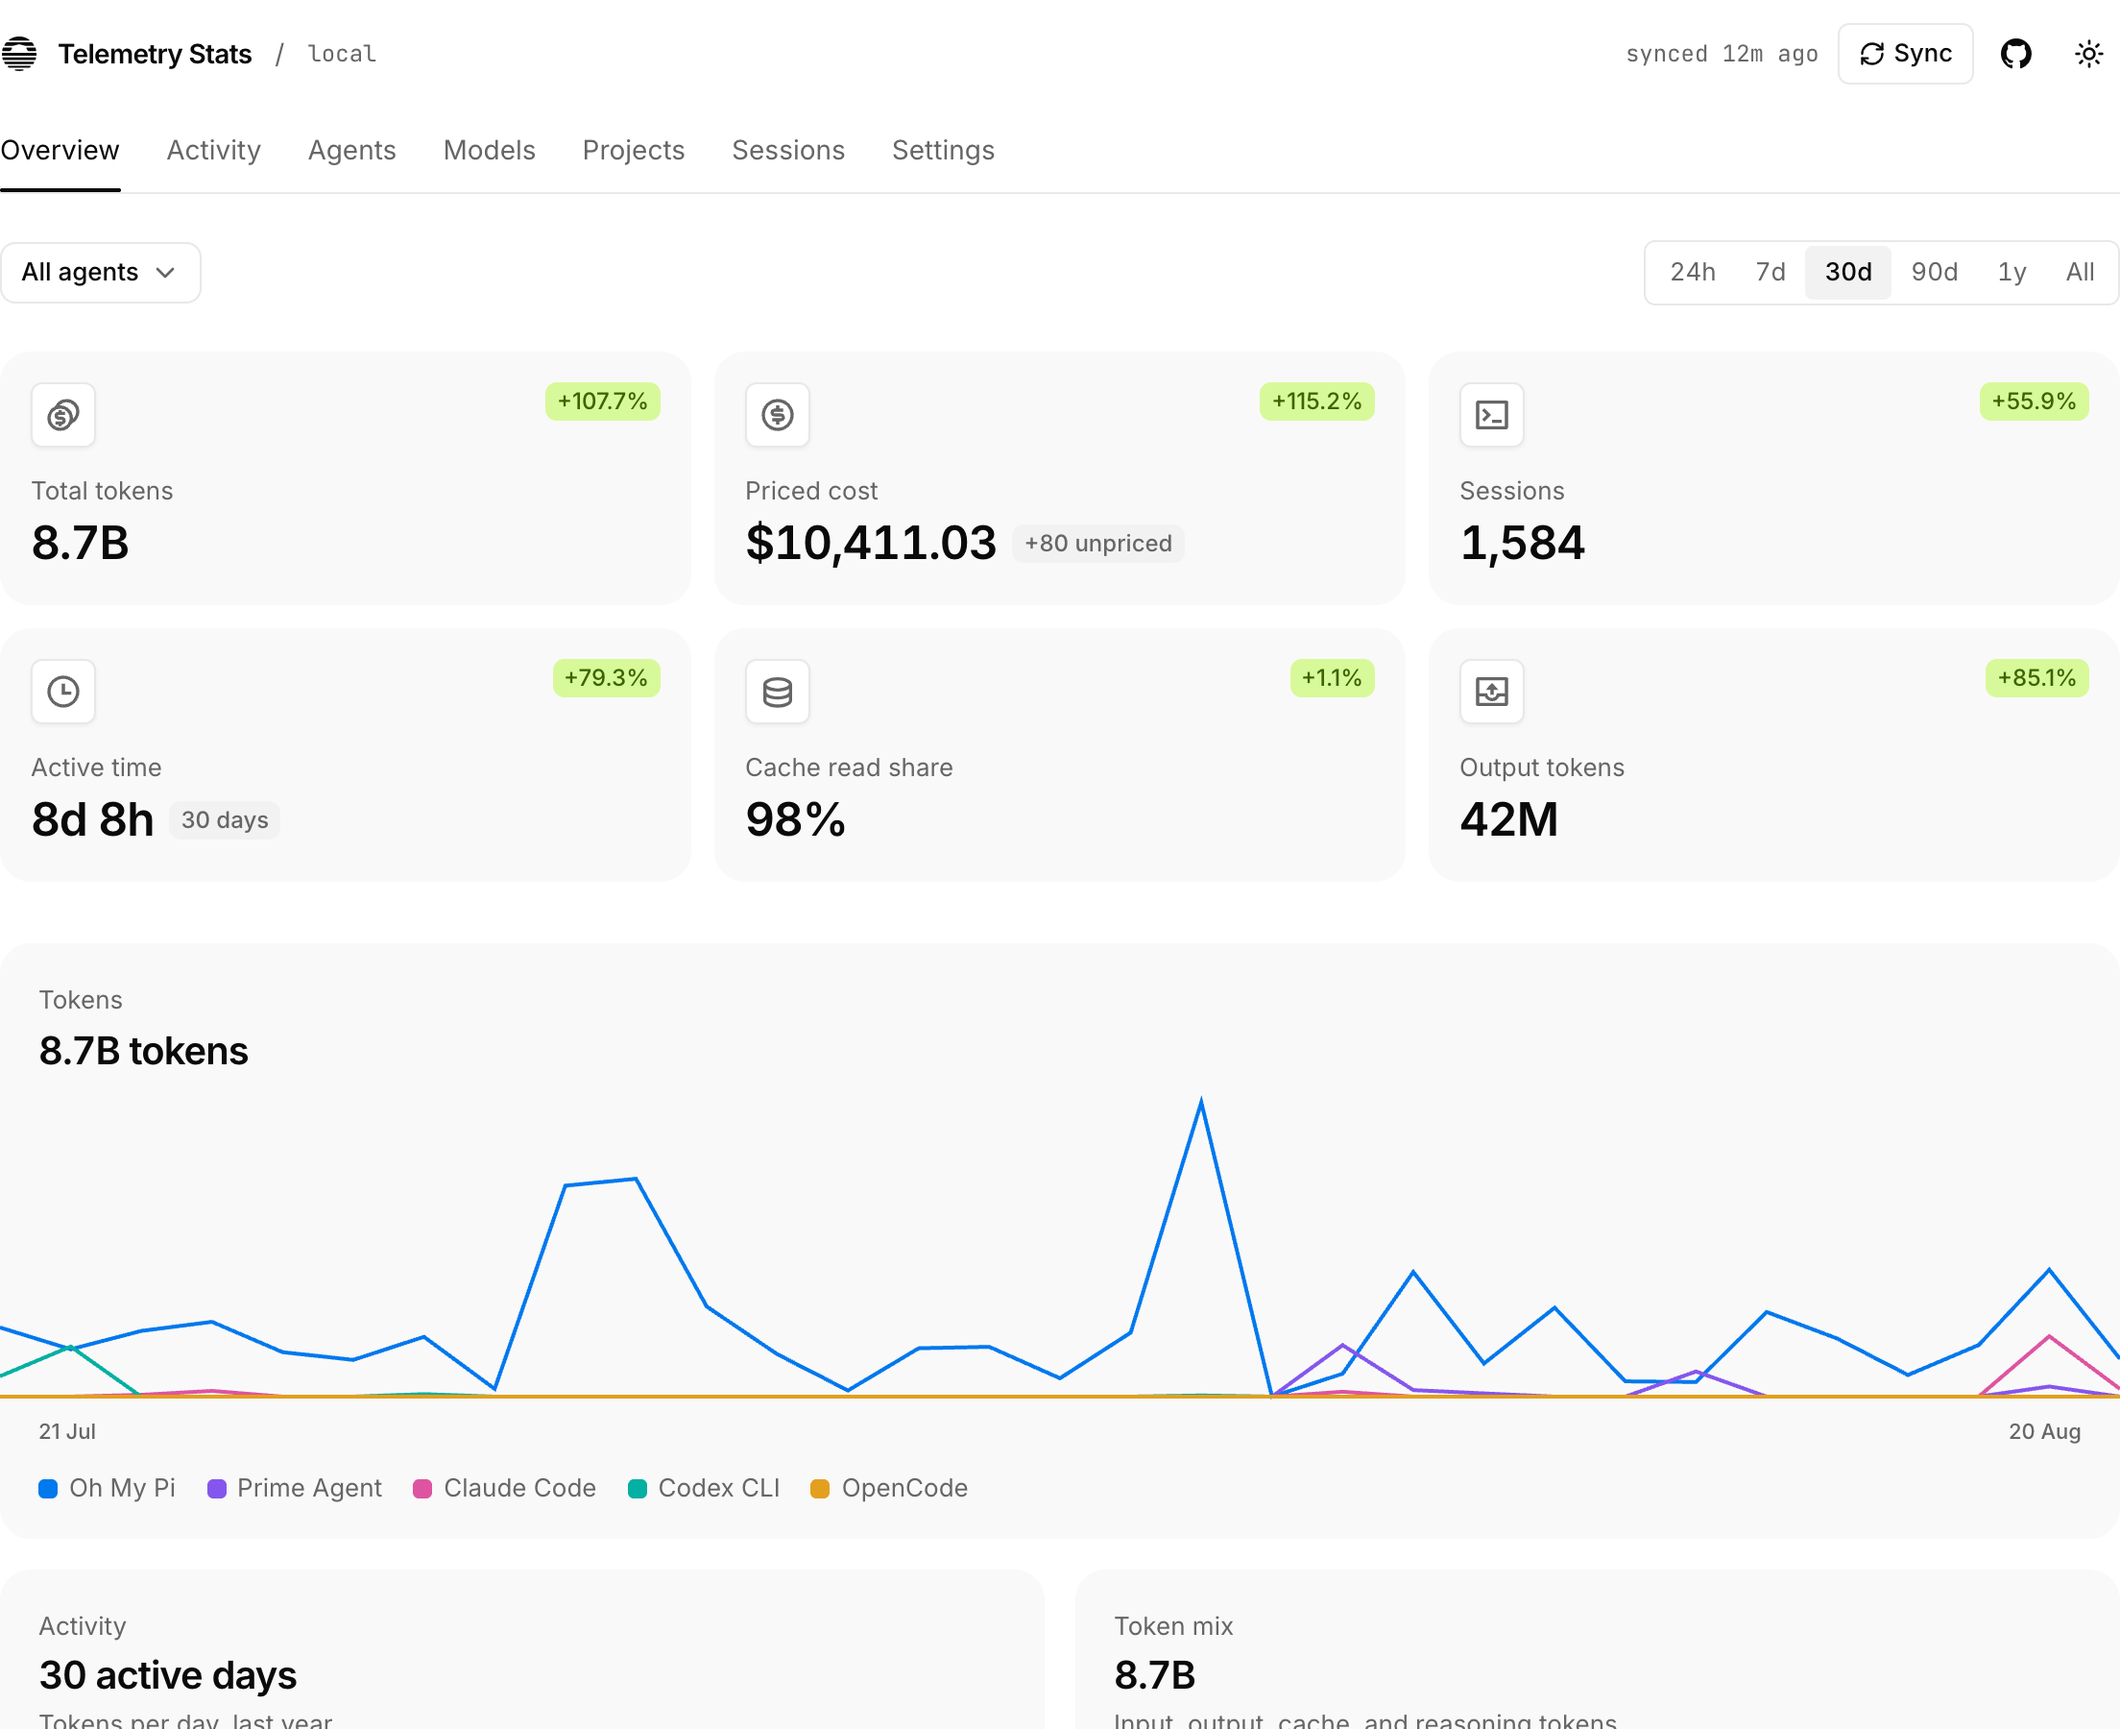
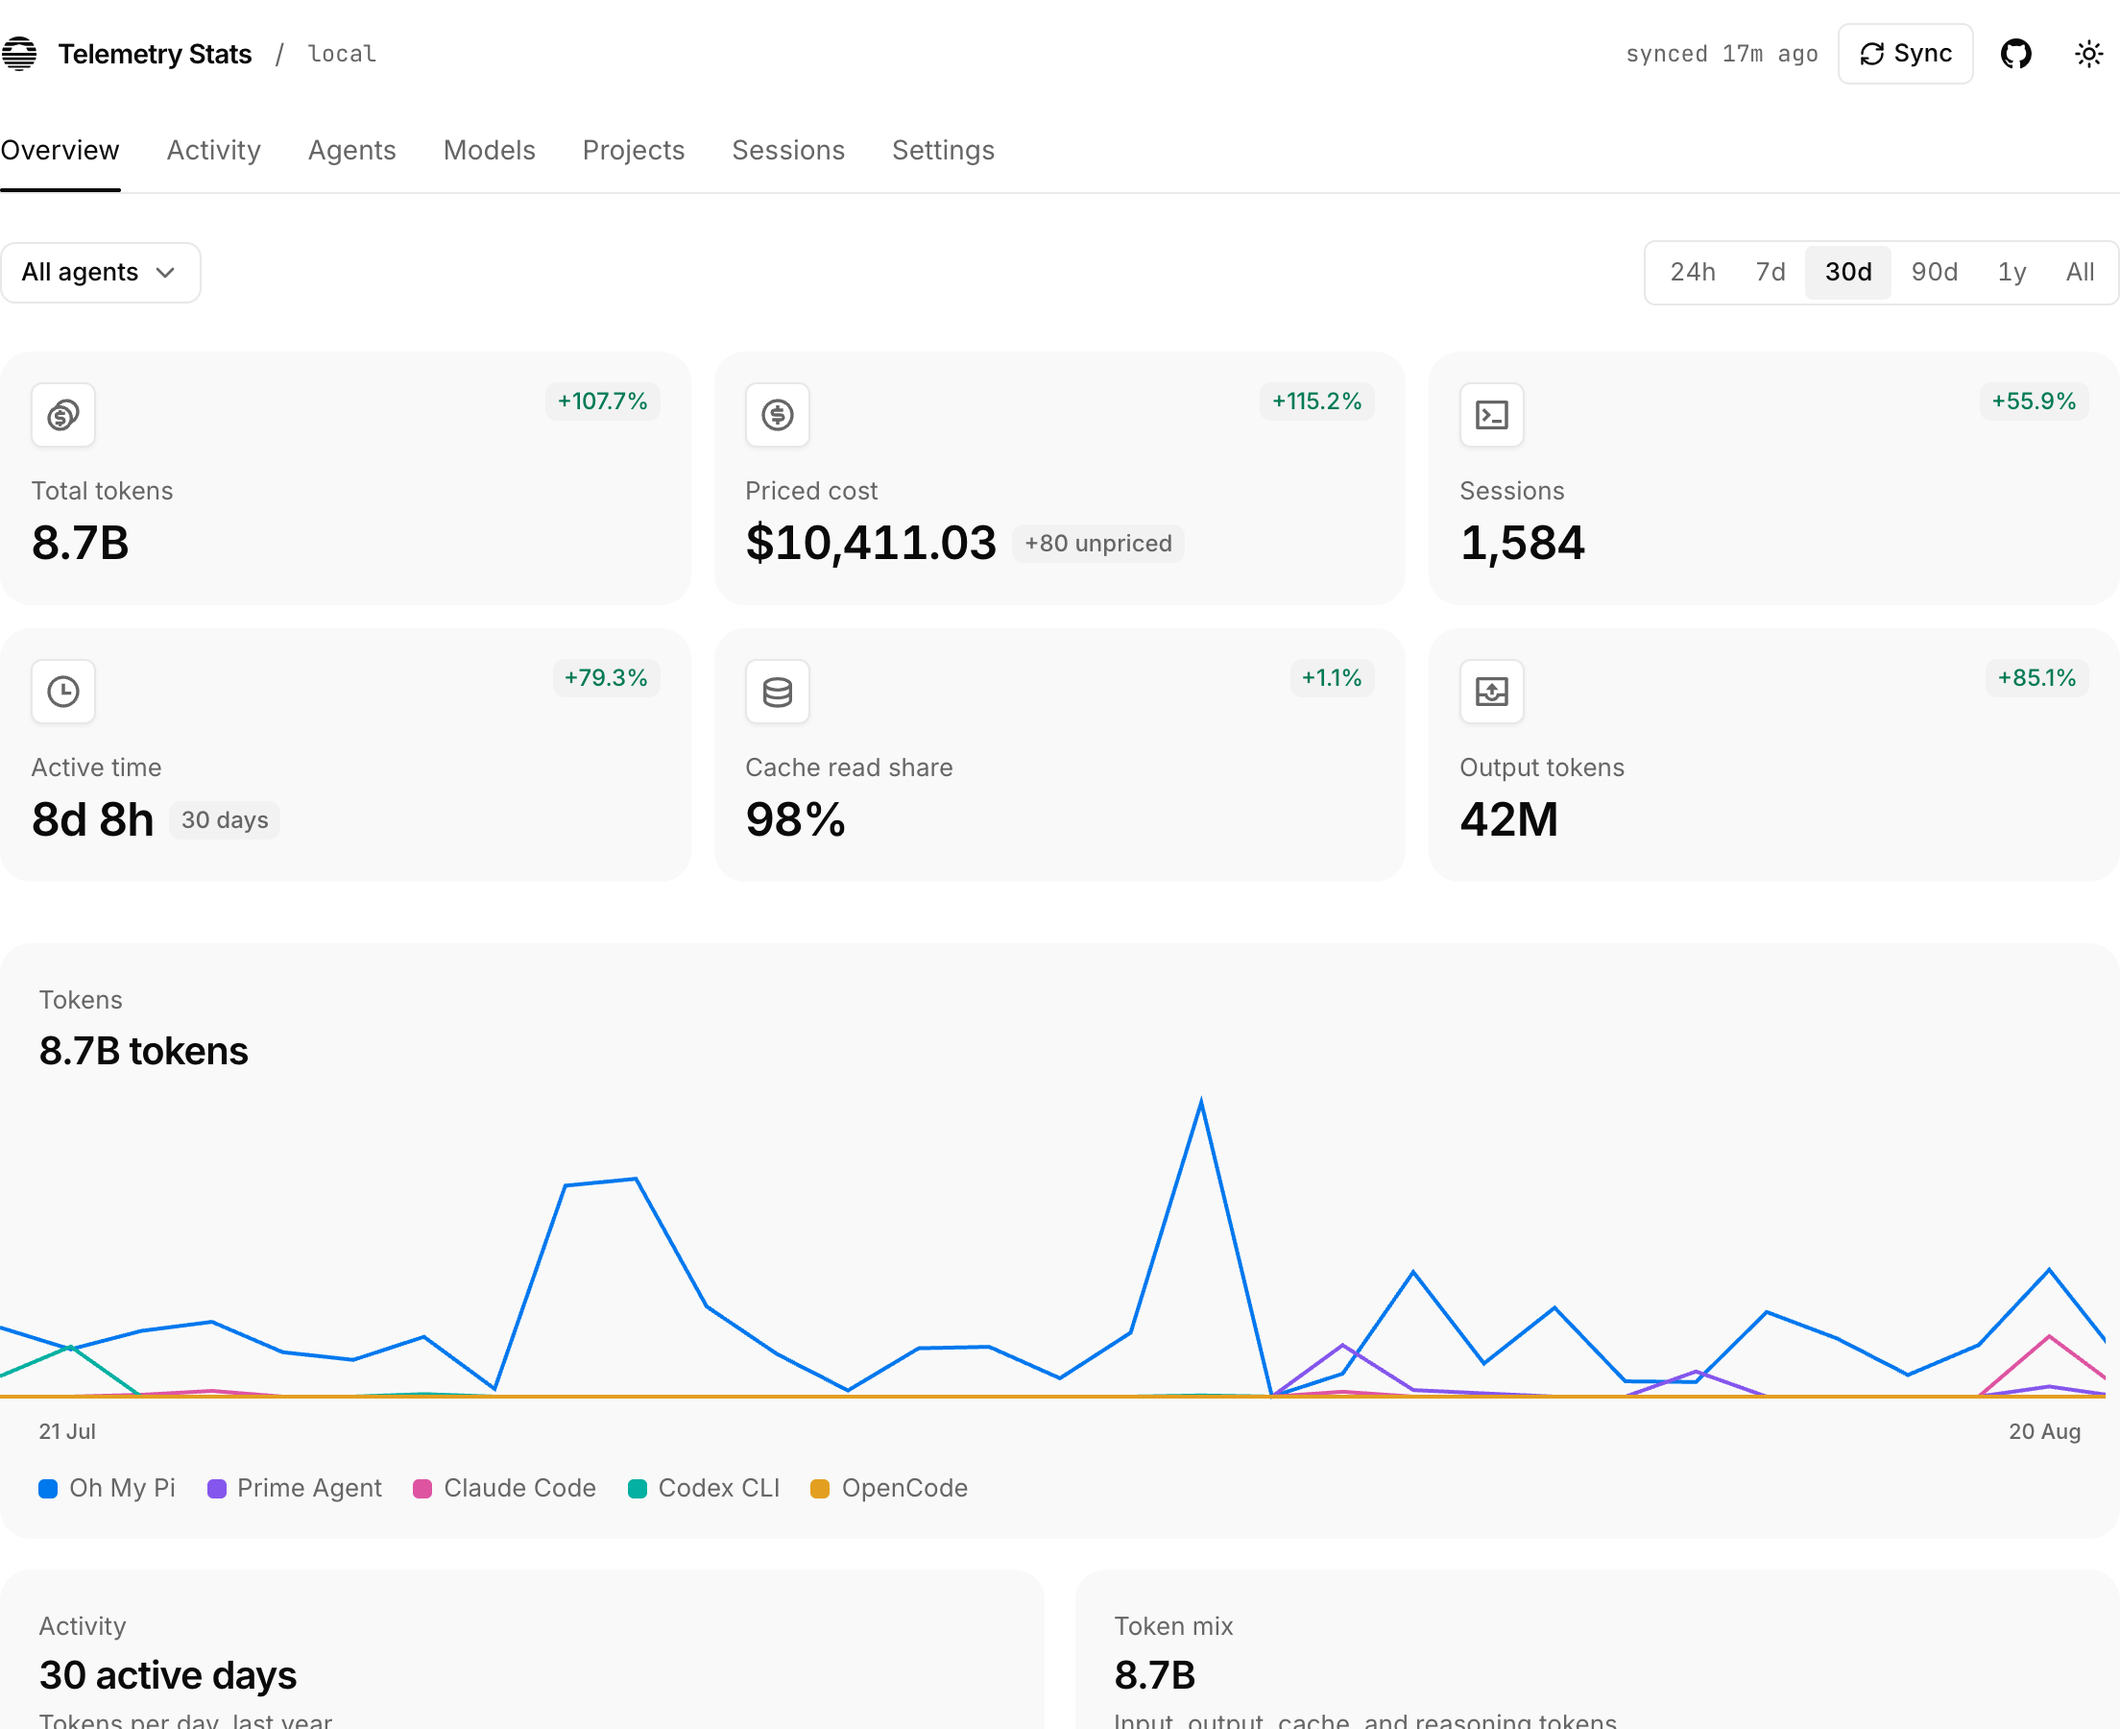
style(overview): decrease the color of the delta chips

diff --git a/src/routes/index.tsx b/src/routes/index.tsx
@@ -275,8 +275,8 @@ function StatTile({
 type ChipColor = "lime" | "rose" | "neutral"
 
 const CHIP_COLORS: Record<ChipColor, string> = {
-  lime: "bg-lime-200 text-lime-800 dark:bg-lime-400/15 dark:text-lime-300",
-  rose: "bg-rose-200 text-rose-800 dark:bg-rose-400/15 dark:text-rose-300",
+  lime: "bg-muted text-emerald-700 dark:text-emerald-400",
+  rose: "bg-muted text-red-700 dark:text-red-400",
   neutral: "bg-muted text-muted-foreground",
 }
 
